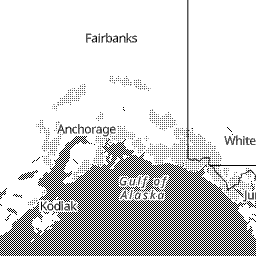
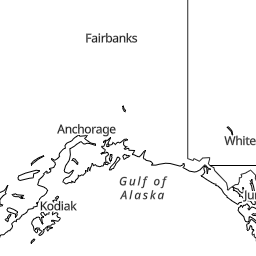
Prototype BW/dithering for radar data

diff --git a/palette_tool/index.html b/palette_tool/index.html
@@ -37,7 +37,9 @@
 <p class="hint">Serve repo root (<code>python3 -m http.server</code>) then open <code>palette_tool/index.html</code>.
 Gray assets decode: <code>g&lt;128 &rarr; rain, dBZ=g-32</code>; <code>g&ge;128 &rarr; snow, dBZ=g-160</code>; alpha 0 &rarr; transparent.
 Low end hides (<code>dBZ &lt; start &rarr; transparent</code>); high end clamps to top band.
-dBZ boost previews stronger/weaker weather (transparent + snow-backdrop gray 128 never boosted).</p>
+dBZ boost previews stronger/weaker weather (transparent + snow-backdrop gray 128 never boosted).
+Dither mixes <code>band[i] &harr; band[i+1]</code> (and <code>transparent &harr; band 0</code>) via 2x2 Bayer on boosted dBZ.
+BW mode dithers each phase's range to a shared transparent/opaque ramp (black, white when dark) with 2x2 or 4x4 Bayer.</p>
 
 <div class="controls">
   <label>Rain bands N (0..15, rest snow)<input id="nRain" type="number" min="0" max="15" step="1" value="8"></label>
@@ -49,6 +51,13 @@ dBZ boost previews stronger/weaker weather (transparent + snow-backdrop gray 128
   <label>Map underneath<input id="showMap" type="checkbox" checked></label>
   <label>Invert map (dark mode)<input id="invertMap" type="checkbox"></label>
   <label>Strength +<span id="dbzBoostVal">0</span> dBZ<input id="dbzBoost" type="range" min="-20" max="20" step="0.5" value="0"></label>
+  <label>Dither<input id="dither" type="checkbox"></label>
+  <label>Dither strength <span id="ditherStrengthVal">1.00</span><input id="ditherStrength" type="range" min="0" max="1" step="0.05" value="1" disabled></label>
+  <label>Display<select id="displayMode"><option value="color" selected>Color</option><option value="bw">BW (1-bit)</option></select></label>
+  <label>BW matrix<select id="bwMatrix" disabled><option value="4" selected>4x4</option><option value="2">2x2</option></select></label>
+  <label>BW phases<select id="bwPhase" disabled><option value="shared" selected>shared</option><option value="snowInv">snow inverted</option><option value="snowOff">snow offset</option><option value="bothOff">both offset</option></select></label>
+  <label title="Matrix shift in px for offset modes; wraps modulo matrix size">BW off X<input id="bwOffX" type="number" min="0" max="7" step="1" value="2" disabled></label>
+  <label title="Matrix shift in px for offset modes; wraps modulo matrix size">BW off Y<input id="bwOffY" type="number" min="0" max="7" step="1" value="2" disabled></label>
   <button id="exportBtn">Export C array</button>
 </div>
 
@@ -93,7 +102,8 @@ const DEFAULT_SCHEME = 7;
 
 const state = { nRain: 8, rainStart: 10, rainEnd: 55, snowStart: 10, snowEnd: 35,
   scheme: DEFAULT_SCHEME, showMap: true, invertMap: false, dbzBoost: 0, rainColors: [], snowColors: [],
-  selRain: 0, selSnow: 0 };
+  selRain: 0, selSnow: 0, dither: false, ditherStrength: 1,
+  displayMode: "color", bwMatrix: 4, bwPhase: "shared", bwOffX: 2, bwOffY: 2 };
 for (let i = 0; i < 15; i++) state.rainColors.push(RAIN_POOL[i % RAIN_POOL.length]);
 for (let i = 0; i < 15; i++) state.snowColors.push(SNOW_POOL[i % SNOW_POOL.length]);
 
@@ -197,6 +207,50 @@ function bandIndex(dbz, start, end, count) {
   return b;
 }
 
+// Ordered dither between adjacent bands (and transparent <-> band 0).
+// p = (dbz - start) / w is the float band position; frac picks lo vs hi
+// via thresh = (1-s)*0.5 + s*t with t = Bayer[y%2][x%2]/4, so s=0 matches bandIndex.
+const BAYER2 = [[0, 2], [3, 1]];
+// 4x4 Bayer for 1-bit previews; same tables as maplibre/sprites/generate_bayer.py.
+const BAYER4 = [[0, 8, 2, 10], [12, 4, 14, 6], [3, 11, 1, 9], [15, 7, 13, 5]];
+// BW ramp: is this echo pixel opaque? f in [0,1] is coverage; opaque iff M < f*N*N.
+// Phase variants: "snowInv" flips snow middle polarities; "snowOff"/"bothOff"
+// shift the snow (resp. both) matrix sampling by (ox, oy) px, wrapping modulo
+// the matrix size (e.g. half a cell moves precip dots into the gaps of a map
+// background pattern that shares the matrix phase).
+function bwOpaque(f, phase, x, y, size, phaseMode, ox, oy) {
+  if (f <= 0) return false;
+  if (f >= 1) return true;
+  const M = size === 4 ? BAYER4 : BAYER2, N = size === 4 ? 4 : 2;
+  let mx = x & (N - 1), my = y & (N - 1);
+  if (phaseMode === "bothOff" || (phase === "snow" && phaseMode === "snowOff")) {
+    mx = (mx + (ox | 0)) & (N - 1); my = (my + (oy | 0)) & (N - 1);
+  }
+  const opaque = M[my][mx] < f * N * N;
+  if (phase === "snow" && phaseMode === "snowInv") return !opaque;
+  return opaque;
+}
+function bwCoverage(dbz, start, end) {
+  if (end <= start) return dbz >= end ? 1 : 0; // degenerate range: echo reads solid
+  return Math.max(0, Math.min(1, (dbz - start) / (end - start)));
+}
+function ditherBand(dbz, start, end, count, x, y, strength) {
+  if (count <= 0) return -1;
+  if (end <= start) return count - 1;
+  const w = (end - start) / count;
+  const p = (dbz - start) / w;
+  if (p < -1) return -1; // more than one band below floor: solid transparent
+  if (p >= count) return count - 1; // above ceiling: solid top
+  let lo = Math.floor(p), frac = p - lo;
+  if (p < 0) { lo = -1; frac = p + 1; } // transparent (-1) <-> band 0 zone
+  const t = BAYER2[y & 1][x & 1] / 4;
+  const thresh = (1 - strength) * 0.5 + strength * t;
+  const sel = (frac > thresh) ? lo + 1 : lo;
+  if (sel < 0) return -1;
+  if (sel >= count) return count - 1;
+  return sel;
+}
+
 function renderInto(canvas, sceneKey, mode) {
   const canvasEl = canvas;
   const ctx = canvasEl.getContext("2d");
@@ -209,17 +263,36 @@ function renderInto(canvas, sceneKey, mode) {
   const nR = state.nRain, nS = 15 - nR;
   for (let i = 0; i < W * H; i++) {
     const r = pd[i*4], a = pd[i*4+3];
+    const x = i % W, y = (i / W) | 0;
     let done = false;
-    if (mode === "pebble") {
+    if (mode === "pebble" && state.displayMode === "bw") {
       const dec = decodePixel(r, a);
       if (dec) {
         const dbz = boostedDbz(dec);
+        const f = dec.phase === "rain"
+          ? bwCoverage(dbz, state.rainStart, state.rainEnd)
+          : bwCoverage(dbz, state.snowStart, state.snowEnd);
+        if (bwOpaque(f, dec.phase, x, y, state.bwMatrix, state.bwPhase, state.bwOffX, state.bwOffY)) {
+          const v = state.invertMap ? 255 : 0; // white on dark, black on light
+          od[i*4]=v; od[i*4+1]=v; od[i*4+2]=v; od[i*4+3]=255;
+          done = true;
+        }
+      }
+    } else if (mode === "pebble") {
+      const dec = decodePixel(r, a);
+      if (dec) {
+        const dbz = boostedDbz(dec);
+        const useDither = state.dither && state.ditherStrength > 0;
         let raw = null;
         if (dec.phase === "rain") {
-          const b = bandIndex(dbz, state.rainStart, state.rainEnd, nR);
+          const b = useDither
+            ? ditherBand(dbz, state.rainStart, state.rainEnd, nR, x, y, state.ditherStrength)
+            : bandIndex(dbz, state.rainStart, state.rainEnd, nR);
           if (b >= 0) raw = state.rainColors[b];
         } else {
-          const b = bandIndex(dbz, state.snowStart, state.snowEnd, nS);
+          const b = useDither
+            ? ditherBand(dbz, state.snowStart, state.snowEnd, nS, x, y, state.ditherStrength)
+            : bandIndex(dbz, state.snowStart, state.snowEnd, nS);
           if (b >= 0) raw = state.snowColors[b];
         }
         if (raw) {
@@ -346,7 +419,23 @@ function renderAll() {
   renderInto(document.getElementById("snowPebble"), "snow", "pebble");
 }
 
+function exportBW() {
+  const L = [];
+  L.push("// BW radar (1-bit draft): shared transparent <-> opaque ramp, opaque = black (white when dark/inverted)");
+  L.push("// rain dBZ [" + state.rainStart + ", " + state.rainEnd + "] -> coverage f; snow dBZ [" + state.snowStart + ", " + state.snowEnd + "] -> coverage f");
+  L.push("// matrix: " + (state.bwMatrix === 4 ? "4x4 [[0,8,2,10],[12,4,14,6],[3,11,1,9],[15,7,13,5]]" : "2x2 [[0,2],[3,1]]") +
+    " (same tables as maplibre/sprites/generate_bayer.py), opaque iff M[y%N][x%N] < f*N*N");
+  L.push("// phases: " + state.bwPhase + (state.bwPhase === "snowOff"
+    ? " (snow matrix shifted by (" + state.bwOffX + "," + state.bwOffY + ")px mod N)"
+    : state.bwPhase === "bothOff" ? " (rain+snow matrix shifted by (" + state.bwOffX + "," + state.bwOffY + ")px mod N)"
+    : state.bwPhase === "snowInv" ? " (snow polarity flipped except f=0 solid clear, f=1 solid opaque)" : " (rain+snow identical)"));
+  L.push("// degenerate range (end<=start): echo reads solid opaque");
+  if (state.dbzBoost !== 0) L.push("// NOTE: preview dBZ boost " + (state.dbzBoost > 0 ? "+" : "") + state.dbzBoost + " dB active — NOT part of export");
+  document.getElementById("export").value = L.join("\n");
+}
+
 function exportC() {
+  if (state.displayMode === "bw") { exportBW(); return; }
   const nR = state.nRain, nS = 15 - state.nRain;
   const pal = ["0x000000"]; // idx 0 transparent; color irrelevant
   for (let i = 0; i < nR; i++) pal.push(state.rainColors[i].replace("#","0x"));
@@ -356,6 +445,11 @@ function exportC() {
   L.push("// rain dBZ [" + state.rainStart + ", " + state.rainEnd + "] equal-width, dBZ<start hidden, high clamped");
   L.push("// snow dBZ [" + state.snowStart + ", " + state.snowEnd + "] equal-width, dBZ<start hidden, high clamped");
   if (state.dbzBoost !== 0) L.push("// NOTE: preview dBZ boost " + (state.dbzBoost > 0 ? "+" : "") + state.dbzBoost + " dB active — NOT part of export");
+  if (state.dither)
+    L.push("// dither: on, strength " + state.ditherStrength.toFixed(2) + ", 2x2 Bayer [[0,2],[3,1]]/4, thresh=(1-s)*0.5+s*t, frac from (dbz-start)/w");
+  else
+    L.push("// dither: off (hard band edges)");
+  if (state.dither) L.push("// dither low end: p in [-1,0) mixes transparent <-> band 0; p<-1 transparent; p>=count clamps top");
   for (let i = 0; i < nR; i++) L.push("// rain band " + i + " (pal " + (1+i) + ") " + bandRangeText(state.rainStart, state.rainEnd, nR, i) + " raw " + state.rainColors[i] + " preview " + (PREVIEW_MAP[state.rainColors[i]]||""));
   for (let i = 0; i < nS; i++) L.push("// snow band " + i + " (pal " + (1+nR+i) + ") " + bandRangeText(state.snowStart, state.snowEnd, nS, i) + " raw " + state.snowColors[i] + " preview " + (PREVIEW_MAP[state.snowColors[i]]||""));
   L.push("static const uint32_t RADAR_PALETTE_RAW[16] = {");
@@ -384,7 +478,59 @@ function bindControls() {
     document.getElementById("dbzBoostVal").textContent = (state.dbzBoost > 0 ? "+" : "") + state.dbzBoost;
     renderAll();
   });
+  document.getElementById("dither").addEventListener("change", e => {
+    state.dither = e.target.checked;
+    refreshControlStates();
+    renderAll();
+  });
+  document.getElementById("ditherStrength").addEventListener("input", e => {
+    state.ditherStrength = Math.max(0, Math.min(1, parseFloat(e.target.value) || 0));
+    document.getElementById("ditherStrengthVal").textContent = state.ditherStrength.toFixed(2);
+    renderAll();
+  });
+  document.getElementById("displayMode").addEventListener("change", e => {
+    state.displayMode = e.target.value === "bw" ? "bw" : "color";
+    refreshControlStates();
+    renderAll();
+  });
+  document.getElementById("bwMatrix").addEventListener("change", e => {
+    state.bwMatrix = parseInt(e.target.value, 10) === 2 ? 2 : 4;
+    renderAll();
+  });
+  document.getElementById("bwPhase").addEventListener("change", e => {
+    const v = e.target.value;
+    state.bwPhase = (v === "snowInv" || v === "snowOff" || v === "bothOff") ? v : "shared";
+    refreshControlStates();
+    renderAll();
+  });
+  const bwOff = (id, fn) => document.getElementById(id).addEventListener("input", e => {
+    let v = parseInt(e.target.value, 10);
+    if (isNaN(v) || v < 0) v = 0;
+    fn(v);
+    renderAll();
+  });
+  bwOff("bwOffX", v => { state.bwOffX = v; });
+  bwOff("bwOffY", v => { state.bwOffY = v; });
   document.getElementById("exportBtn").addEventListener("click", exportC);
+  refreshControlStates();
+}
+
+// Color-only inputs do nothing in BW mode (shared ramp); BW inputs vice versa.
+function refreshControlStates() {
+  const isBW = state.displayMode === "bw";
+  document.getElementById("nRain").disabled = isBW;
+  document.getElementById("dither").disabled = isBW;
+  document.getElementById("ditherStrength").disabled = isBW || !state.dither;
+  document.getElementById("bwMatrix").disabled = !isBW;
+  document.getElementById("bwPhase").disabled = !isBW;
+  const offEnabled = isBW && (state.bwPhase === "snowOff" || state.bwPhase === "bothOff");
+  document.getElementById("bwOffX").disabled = !offEnabled;
+  document.getElementById("bwOffY").disabled = !offEnabled;
+  for (const sel of ["#strip", "#selInfo", ".pickers"])
+    for (const el of document.querySelectorAll(sel)) {
+      el.style.opacity = isBW ? "0.35" : "";
+      el.style.pointerEvents = isBW ? "none" : "";
+    }
 }
 
 async function main() {

diff --git a/palettes.md b/palettes.md
@@ -3,6 +3,7 @@
 // Pebble 16-color radar palette (draft): 1 transparent + 12 rain + 3 snow
 // rain dBZ [10, 70] equal-width, dBZ<start hidden, high clamped
 // snow dBZ [5, 35] equal-width, dBZ<start hidden, high clamped
+// dither: off
 // rain band 0 (pal 1) [10.0, 15.0) raw #00AAFF preview #4cb4db
 // rain band 1 (pal 2) [15.0, 20.0) raw #0000FF preview #0068ca
 // rain band 2 (pal 3) [20.0, 25.0) raw #00FF00 preview #8ee391
@@ -22,22 +23,32 @@
 
 // Dark Sky
 
-// Pebble 16-color radar palette (draft): 1 transparent + 10 rain + 5 snow
-// rain dBZ [15, 50] equal-width, dBZ<start hidden, high clamped
-// snow dBZ [0, 45] equal-width, dBZ<start hidden, high clamped
-// NOTE: preview dBZ boost +2.5 dB active — NOT part of export
-// rain band 0 (pal 1) [15.0, 18.5) raw #000055 preview #001e41
-// rain band 1 (pal 2) [18.5, 22.0) raw #000055 preview #001e41
-// rain band 2 (pal 3) [22.0, 25.5) raw #0000AA preview #004387
-// rain band 3 (pal 4) [25.5, 29.0) raw #5500AA preview #40488a
-// rain band 4 (pal 5) [29.0, 32.5) raw #AA00AA preview #955694
-// rain band 5 (pal 6) [32.5, 36.0) raw #FF0000 preview #e35462
-// rain band 6 (pal 7) [36.0, 39.5) raw #FF5500 preview #e66e6b
-// rain band 7 (pal 8) [39.5, 43.0) raw #FFAA00 preview #f1aa86
-// rain band 8 (pal 9) [43.0, 46.5) raw #FFFF00 preview #ffeeab
-// rain band 9 (pal 10) [46.5, 50.0] clamp hi raw #FFFFAA preview #fff6d3
-// snow band 0 (pal 11) [0.0, 9.0) raw #55FFFF preview #95f6f2
-// snow band 1 (pal 12) [9.0, 18.0) raw #55FFFF preview #95f6f2
-// snow band 2 (pal 13) [18.0, 27.0) raw #55AAFF preview #69b5dd
-// snow band 3 (pal 14) [27.0, 36.0) raw #5555FF preview #4180d0
-// snow band 4 (pal 15) [36.0, 45.0] clamp hi raw #0055FF preview #007dce
+// Pebble 16-color radar palette (draft): 1 transparent + 9 rain + 6 snow
+// rain dBZ [15, 55] equal-width, dBZ<start hidden, high clamped
+// snow dBZ [10, 35] equal-width, dBZ<start hidden, high clamped
+// dither: on, strength 1.00, 2x2 Bayer [[0,2],[3,1]]/4, thresh=(1-s)*0.5+s*t, frac from (dbz-start)/w
+// dither low end: p in [-1,0) mixes transparent <-> band 0; p<-1 transparent; p>=count clamps top
+// rain band 0 (pal 1) [15.0, 19.4) raw #000055 preview #001e41
+// rain band 1 (pal 2) [19.4, 23.9) raw #0000AA preview #004387
+// rain band 2 (pal 3) [23.9, 28.3) raw #5500AA preview #40488a
+// rain band 3 (pal 4) [28.3, 32.8) raw #AA00AA preview #955694
+// rain band 4 (pal 5) [32.8, 37.2) raw #FF0000 preview #e35462
+// rain band 5 (pal 6) [37.2, 41.7) raw #FF5500 preview #e66e6b
+// rain band 6 (pal 7) [41.7, 46.1) raw #FFAA00 preview #f1aa86
+// rain band 7 (pal 8) [46.1, 50.6) raw #FFFF00 preview #ffeeab
+// rain band 8 (pal 9) [50.6, 55.0] clamp hi raw #FFFFAA preview #fff6d3
+// snow band 0 (pal 10) [10.0, 14.2) raw #55FFFF preview #95f6f2
+// snow band 1 (pal 11) [14.2, 18.3) raw #55FFFF preview #95f6f2
+// snow band 2 (pal 12) [18.3, 22.5) raw #55AAFF preview #69b5dd
+// snow band 3 (pal 13) [22.5, 26.7) raw #00AAFF preview #4cb4db
+// snow band 4 (pal 14) [26.7, 30.8) raw #5555FF preview #4180d0
+// snow band 5 (pal 15) [30.8, 35.0] clamp hi raw #0055FF preview #007dce
+
+// BW
+
+// BW radar (1-bit draft): shared transparent <-> opaque ramp, opaque = black (white when dark/inverted)
+// rain dBZ [10, 50] -> coverage f; snow dBZ [0, 40] -> coverage f
+// matrix: 2x2 [[0,2],[3,1]] (same tables as maplibre/sprites/generate_bayer.py), opaque iff M[y%N][x%N] < f*N*N
+//     or: 4x4 [[0,8,2,10],[12,4,14,6],[3,11,1,9],[15,7,13,5]]
+// phases: shared (rain+snow identical)
+// degenerate range (end<=start): echo reads solid opaque
